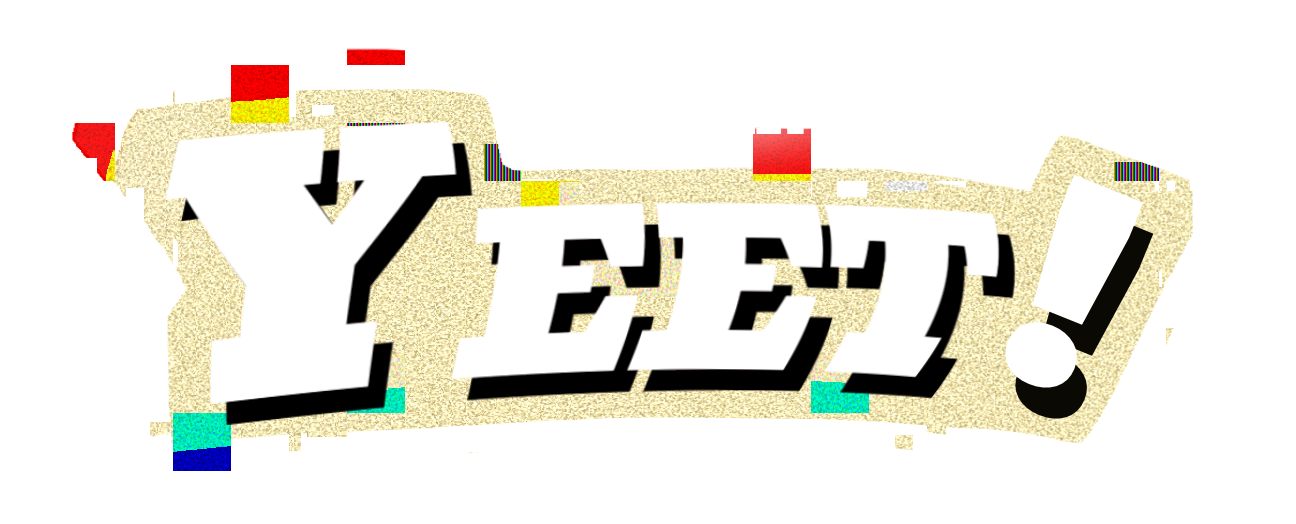
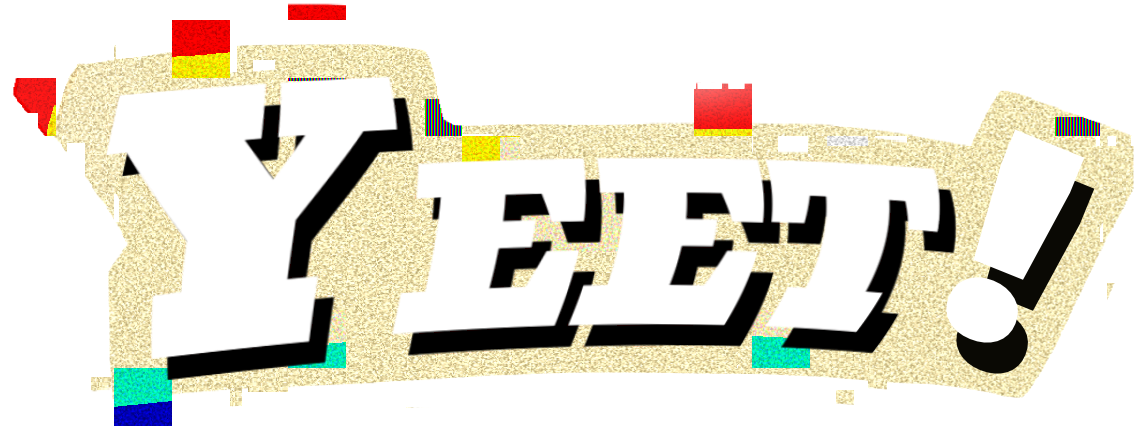
register

diff --git a/yeet_frontend/src/assets/Menutemp.css b/yeet_frontend/src/assets/Menutemp.css
@@ -167,7 +167,9 @@
   .main-link-logout{
       position: relative;
       bottom: 80px;
-      left: 200px;
+      left: 870px;
+      /* background-color: aqua; */
+      width: 400px;
   }
 
   .logout-button-menu{
@@ -202,7 +204,8 @@
     z-index:2;
     position: relative;
     bottom: 30px;
-    left: 130px;
+    left: 350px;
+     width: 1000px; 
     animation-name: FadeIn;
     animation-duration: 3s;
     transition-timing-function: linear;
@@ -273,14 +276,14 @@
   position: relative;
   font-size: 20px;
   z-index: 4;
-  width: 400px;
+  width: 450px;
   height: 200px;
   bottom: 1750px;
   text-align:center;
   animation-name: FadeIn;
   animation-duration: 4s;
   animation-timing-function: linear;
-  
+
 }
 
 

diff --git a/yeet_frontend/src/components/Auth.jsx b/yeet_frontend/src/components/Auth.jsx
@@ -115,14 +115,18 @@ const Auth = () => {
             onChange={handleChange}
             className = "login-input"
           />
+          <div>
+
           <input 
             type="email" 
             name="email" 
             placeholder="email"
             value={inputs.email || ""} 
             onChange={handleChange}
-          />
-          <button>SIGN UP</button>
+            className = "login-input"
+            />
+            </div>
+          <button className='login-button'>SIGN UP</button>
         </form>
         <div className='login-sign'>
         Already have one?<button onClick={toggle}>LOG IN</button>

diff --git a/yeet_frontend/src/components/MusicPlayer.jsx b/yeet_frontend/src/components/MusicPlayer.jsx
@@ -75,7 +75,7 @@ const MusicPlayer = ({ audioType }) => {
     
     return (
         <div >
-            playing {audioList[audioType].musicName} by {audioList[audioType].composer}
+           Now playing {audioList[audioType].musicName} by {audioList[audioType].composer}
         </div>
     )
 }
